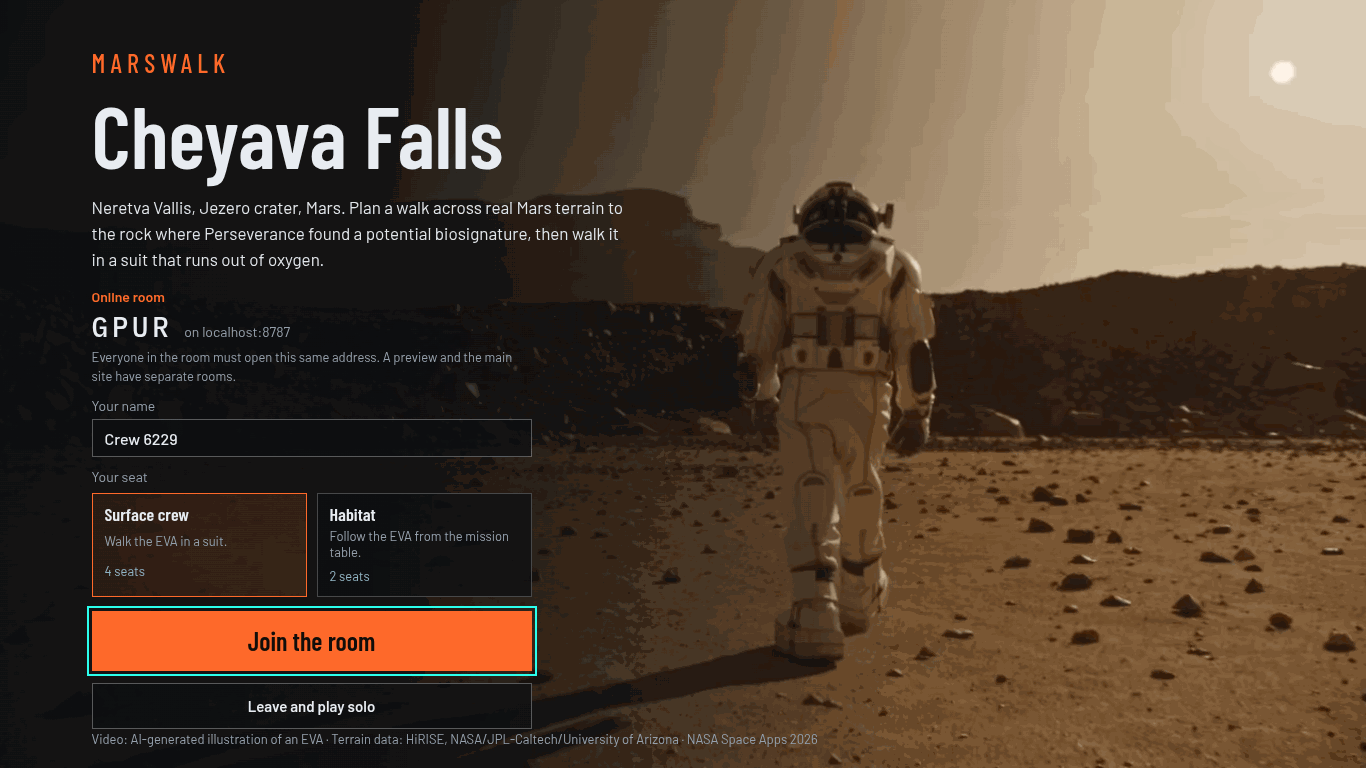
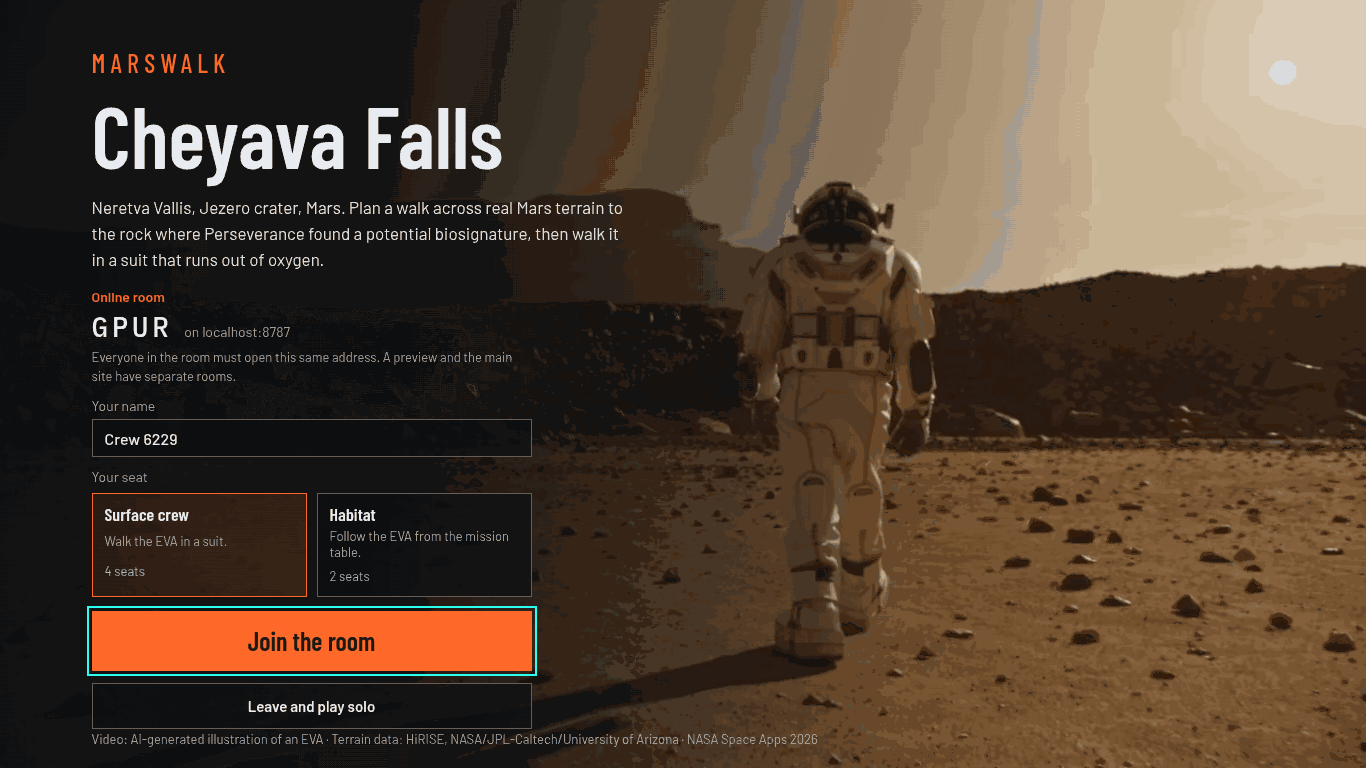
fix(online): leave the Crew tab after Leave, save the shared clock paused and trim the QA screenshots

diff --git a/src/online/clockSync.test.js b/src/online/clockSync.test.js
@@ -1,6 +1,6 @@
 import { describe, expect, it } from 'vitest';
 import { create } from 'zustand';
-import { startMissionClock } from '../sim/missionClock.js';
+import { readClockSession, startMissionClock } from '../sim/missionClock.js';
 import { createInitialState } from '../state/store.js';
 import { sharedStartMs, startClockSync } from './clockSync.js';
 
@@ -76,6 +76,21 @@ describe('shared mission clock', () => {
     const stopSync = startClockSync(store);
     const clock = startMissionClock({ store, now: () => server, storage: null, setInterval: () => null, clearInterval: () => {}, restore: false });
     expect(store.getState().mission.elapsedSec).toBeCloseTo(90, 6);
+    clock.stop(); stopSync();
+  });
+
+  it('saves a shared session paused, so a reload waits for the room instead of running on its own', () => {
+    const server = 4_000_000;
+    const saved = new Map();
+    const storage = { getItem: (k) => saved.get(k) ?? null, setItem: (k, v) => saved.set(k, v), removeItem: (k) => saved.delete(k) };
+    const store = create(() => createInitialState());
+    store.setState((s) => ({ online: { ...s.online, code: 'ABCD', status: 'open', startedAtMs: server - 20_000, offsetMs: 0 } }));
+    const stopSync = startClockSync(store);
+    const clock = startMissionClock({ store, now: () => server, storage, setInterval: () => null, clearInterval: () => {} });
+    expect(store.getState().mission.paused).toBe(false);
+    const stored = readClockSession(storage);
+    expect(stored).toMatchObject({ paused: true });
+    expect(stored.elapsedSec).toBeCloseTo(20, 6);
     clock.stop(); stopSync();
   });
 

diff --git a/src/onlineLink.js b/src/onlineLink.js
@@ -93,6 +93,9 @@ export function createOnlineController({
   let netPromise = null;
   let startSent = false;
   let stopSync = null;
+  const joinListeners = new Set();
+  // A join counts once, when joinSeq goes up, including a welcome that lands inside join() itself.
+  session.subscribe((s, prev) => { if (s.joinSeq > prev.joinSeq) for (const fn of [...joinListeners]) fn(); });
 
   function ensureNet() {
     if (!netPromise) {
@@ -127,7 +130,9 @@ export function createOnlineController({
   }
 
   // Follows the connection while a handle exists: the join outcome, the seats and the mission start.
-  store.subscribe((state) => {
+  store.subscribe((state, previous) => {
+    // Only the room and the mode matter here; the simulation writes the store several times a second.
+    if (state.online === previous?.online && state.mode === previous?.mode) return;
     const s = session.getState();
     if (!s.handle) return;
     const online = state.online || {};
@@ -203,6 +208,14 @@ export function createOnlineController({
       net.newPlayerId();
       session.setState({ joining: false });
       return api.join();
+    },
+    /**
+     * Calls fn after every join from now on (the room seated the player, or gave up and the game goes on solo).
+     * A listener added after a join is not called for it. Returns a function that removes the listener.
+     */
+    onJoined(fn) {
+      joinListeners.add(fn);
+      return () => joinListeners.delete(fn);
     },
     /** After 4001: the other seat, at once. */
     switchRole(role) {

diff --git a/src/onlineLink.test.js b/src/onlineLink.test.js
@@ -240,6 +240,34 @@ describe('the join counter that moves the start screen on', () => {
     await c.join();
     expect(c.session.getState()).toMatchObject({ joined: true, joinSeq: 1 });
   });
+
+  it('onJoined (what the start screen listens to) fires once per join, and not for a join before it listened', async () => {
+    const store = create(() => createInitialState());
+    const net = fakeNet(store);
+    const c = createOnlineController({ store, load: () => Promise.resolve(net), storage: memoryStorage(), ...fakeLocation(), warn: () => {} });
+    c.openRoom('ABCD');
+    const first = vi.fn();
+    const off = c.onJoined(first);
+    // a welcome inside startOnline: joining and joined land in the same tick
+    const start = net.startOnline;
+    net.startOnline = (opts) => { const h = start(opts); patch(store, { status: 'open' }); return h; };
+    await c.join();
+    expect(first).toHaveBeenCalledOnce();
+    patch(store, { rttMs: 12 });
+    expect(first).toHaveBeenCalledOnce();
+    // a start screen shown again after a restart listens from now on: the earlier join does not move it
+    const later = vi.fn();
+    c.onJoined(later);
+    expect(later).not.toHaveBeenCalled();
+    // a slow room: Join, then the welcome later
+    net.startOnline = start;
+    off();
+    await c.joinAsNewPlayer();
+    expect(later).not.toHaveBeenCalled();
+    patch(store, { status: 'open' });
+    expect(later).toHaveBeenCalledOnce();
+    expect(first).toHaveBeenCalledOnce();
+  });
 });
 
 describe('isHabitatSeat', () => {

diff --git a/src/online/JoinPanel.jsx b/src/online/JoinPanel.jsx
@@ -125,18 +125,15 @@ export default function OnlineStart({ busy = false, onStart, children }) {
   useLanguage();
   const view = useOnlineSession((s) => s.view);
   const joined = useOnlineSession((s) => s.joined);
-  const joinSeq = useOnlineSession((s) => s.joinSeq);
   const code = useOnlineSession((s) => s.code);
   const badCode = useOnlineSession((s) => s.badCode);
   const status = useMissionStore((s) => s.online.status);
   const controller = getOnlineController();
-  // Continue once per join that happens while this screen is up. joinSeq counts joins, so a welcome that lands in the
-  // same render as the Join press still counts, and a start screen shown again after a restart does not skip itself.
-  const seenSeq = useRef(joinSeq);
-
-  useEffect(() => {
-    if (joinSeq > seenSeq.current) { seenSeq.current = joinSeq; onStart?.(); }
-  }, [joinSeq, onStart]);
+  // Continue once per join that happens while this screen is up (controller.onJoined, tested in src/onlineLink.test.js).
+  // A start screen shown again after a restart does not skip itself: it only hears joins made after it mounted.
+  const onStartRef = useRef(onStart);
+  useEffect(() => { onStartRef.current = onStart; });
+  useEffect(() => controller?.onJoined(() => onStartRef.current?.()), [controller]);
 
   if (view === 'pick') return <RoomPicker />;
   if (view === 'join' && !joined) return <JoinPanel busy={busy} />;

diff --git a/src/online/hooks.js b/src/online/hooks.js
@@ -1,4 +1,5 @@
 // Small hooks the mission table calls (#52, #55). Separate from the components so fast refresh keeps working.
+import { useEffect } from 'react';
 import { t } from '../i18n/index.js';
 import { useLanguage } from '../i18n/useLanguage.js';
 import { ROLE, useOnlineSession } from '../onlineLink.js';
@@ -6,10 +7,22 @@ import { useMissionStore } from '../state/store.js';
 
 export const CREW_TAB = 'crew';
 
-/** The mission table's tabs: the Crew tab joins them while this tab has a room. */
-export function useOnlineTabs(tabs) {
+/** The tab to show instead of `tab`, or null to keep it: an open Crew tab goes back to the first step without a room. */
+export function tabAfterRoom(online, tab, tabs) {
+  return !online && tab === CREW_TAB ? tabs[0].id : null;
+}
+
+/**
+ * The mission table's tabs: the Crew tab joins them while this tab has a room. Given the table's tab state, it also
+ * moves an open Crew tab back to the first step once the room is gone (after Leave).
+ */
+export function useOnlineTabs(tabs, tab, setTab) {
   useLanguage();
   const online = useMissionStore((s) => s.online.code !== null);
+  useEffect(() => {
+    const next = tabAfterRoom(online, tab, tabs);
+    if (next && setTab) setTab(next);
+  }, [online, tab, setTab, tabs]);
   return online ? [...tabs, { id: CREW_TAB, label: t('online.crew.tab') }] : tabs;
 }
 

diff --git a/src/online/online.test.jsx b/src/online/online.test.jsx
@@ -8,6 +8,7 @@ import { BeginButton } from '../plan/MissionTable.jsx';
 import { CrewTab, OnlineIssue } from './CrewPanel.jsx';
 import OnlineStart from './JoinPanel.jsx';
 import RoomBadge from './RoomBadge.jsx';
+import { tabAfterRoom } from './hooks.js';
 
 // SSR reads a Zustand store's creation-time state; render the current one instead, as src/i18n/interface.test.jsx does.
 vi.mock('../state/store.js', async (importOriginal) => {
@@ -155,6 +156,15 @@ describe('the habitat seat and the pause menu online', () => {
     expect(html).toContain('Online the mission clock and the events keep running while this menu is open.');
     expect(html).not.toContain('EVA paused');
     expect(html).toContain('Language');
+  });
+});
+
+describe('the Crew tab after Leave', () => {
+  it('goes back to the first step when the room is gone, and stays put otherwise', () => {
+    const tabs = [{ id: 'site' }, { id: 'route' }];
+    expect(tabAfterRoom(false, 'crew', tabs)).toBe('site');
+    expect(tabAfterRoom(true, 'crew', tabs)).toBeNull();
+    expect(tabAfterRoom(false, 'route', tabs)).toBeNull();
   });
 });
 

diff --git a/src/sim/missionClock.js b/src/sim/missionClock.js
@@ -535,7 +535,9 @@ export function startMissionClock({
   let published = null;
   let stopped = false;
 
-  const persist = () => writeClockSession(storage, session);
+  // A shared session is saved paused at its current reading: after a reload the clock waits for the room again
+  // instead of running on its own before the rejoin.
+  const persist = () => writeClockSession(storage, shared !== null ? pauseClockSession(session, now()) : session);
   // Online (9.5): while the store holds `mission.sharedStartMs`, the session follows that start and ignores pauses.
   // The app writes it from the room (src/online/clockSync.js); this module never sees the network.
   let shared = sharedStartOf(store.getState());

diff --git a/src/plan/MissionTable.jsx b/src/plan/MissionTable.jsx
@@ -308,7 +308,7 @@ export function BeginButton({ planner, totals, evaBegun, onBeginEva }) {
  */
 export default function MissionTable({ planner, waypoints, evaBegun = false, onBeginEva, onControls }) {
   const [tab, setTab] = useState('site');   // the table opens on step 1
-  const tabs = useOnlineTabs(TABS);   // online (#52): adds the Crew tab
+  const tabs = useOnlineTabs(TABS, tab, setTab);   // online (#52): adds the Crew tab, leaves it after Leave
   const route = useMissionStore((s) => s.route);
   const layer = useMissionStore((s) => s.view.layer);
   const clock = useMissionStore(useShallow((s) => ({ lmst: s.mission.lmst, elapsedSec: s.mission.elapsedSec })));

diff --git a/docs/qa/online-m1-ui.md b/docs/qa/online-m1-ui.md
@@ -6,7 +6,7 @@ The run recorded here passed 19 of 19 checks. It started at 05:13 PST and took 1
 
 Earlier runs, not recorded in that file:
 
-- Five runs on SwiftShader (headless, software WebGL), 10 to 12 minutes each. The first stopped at once: that build did not expose the store to the script. The next three failed checks, from the script problems listed at the end of this page and once from a 2825 ms join during a memory-pressure spike. The fifth passed every check.
+- Five runs on SwiftShader (headless, software WebGL), 10 to 12 minutes each. The first stopped at once: that build did not expose the store to the script. The next three failed checks, from the script problems listed at the end of this page and once from a join slower than 2 s during a memory-pressure spike. The fifth passed every check.
 - Three earlier GPU runs. Two passed 19 of 19. The third, during the memory-pressure spike, timed out at the room-full step.
 
 ## How to rerun
@@ -18,7 +18,7 @@ CHROME=/path/to/chrome ROOM=ABCD node scripts/room-e2e-ui.mjs docs/qa/img
 QA_GPU=1 CHROME=/path/to/chromium ROOM=ABCD node scripts/room-e2e-ui.mjs docs/qa/img   # GPU through WSLg
 ```
 
-Use a fresh `ROOM` for each run: the room keeps its mission start. Without `QA_GPU=1` the script uses headless Chrome with SwiftShader (`scripts/qaBrowser.mjs`). It writes `docs/qa/img/e2e-results.json` and the screenshots.
+Use a fresh `ROOM` for each run: the room keeps its mission start. Without `QA_GPU=1` the script uses headless Chrome with SwiftShader (`scripts/qaBrowser.mjs`). It writes `docs/qa/img/e2e-results.json` and five screenshots; three are committed.
 
 ## Results
 
@@ -37,8 +37,6 @@ From [img/e2e-results.json](img/e2e-results.json):
 | 5th surface player (A plus three socket players) | "Surface crew is full: all 4 seats are taken"; "Join as Habitat" seats it |
 | Duplicated tab (same player id from sessionStorage) | the old tab shows "This player joined from another tab"; "Join as a new player" seats it with a new id, both tabs in the room |
 
-The earlier runs gave join times from 51 to 2825 ms (the 2825 ms under the memory-pressure spike), leave times from 119 to 983 ms and clock differences from 0.0 to 64.5 ms (the 64.5 ms under load). Those numbers come from console logs that were not kept.
-
 The mission clock check reads `(Date.now() - mission.anchorMs) x timeScale` in each page. That is the clock's own formula: while the room's start is known, the anchor is `mission.sharedStartMs`. Both browsers ran on one machine, so their server clock offsets are close to 0. The two-client unit test in `src/online/clockSync.test.js` covers different offsets (0 and -3456.7 ms): mission times stay within 1 ms.
 
 The first SwiftShader runs failed on three problems in the script, not in the app. Filler sockets that never sent `ping` were closed by the room as stale after 30 s. A tab rendering Walk on SwiftShader starved its own pings. And the "both tabs seated" check ran before the welcome arrived. The script now pings, takes A back to the table after the clock check, and waits up to 10 s for the crew list.
@@ -49,6 +47,4 @@ The first SwiftShader runs failed on three problems in the script, not in the ap
 | --- | --- | --- |
 | ![Join panel](img/online-m1-join.png) | ![Crew tab](img/online-m1-crew.png) | ![Room full](img/online-m1-room-full.png) |
 
-| Habitat seat, crew tab | Replaced |
-| --- | --- |
-| ![Habitat](img/online-m1-crew-habitat.png) | ![Replaced](img/online-m1-replaced.png) |
+The script also writes `online-m1-crew-habitat.png` and `online-m1-replaced.png`. They are left out of the repository to keep it small.
